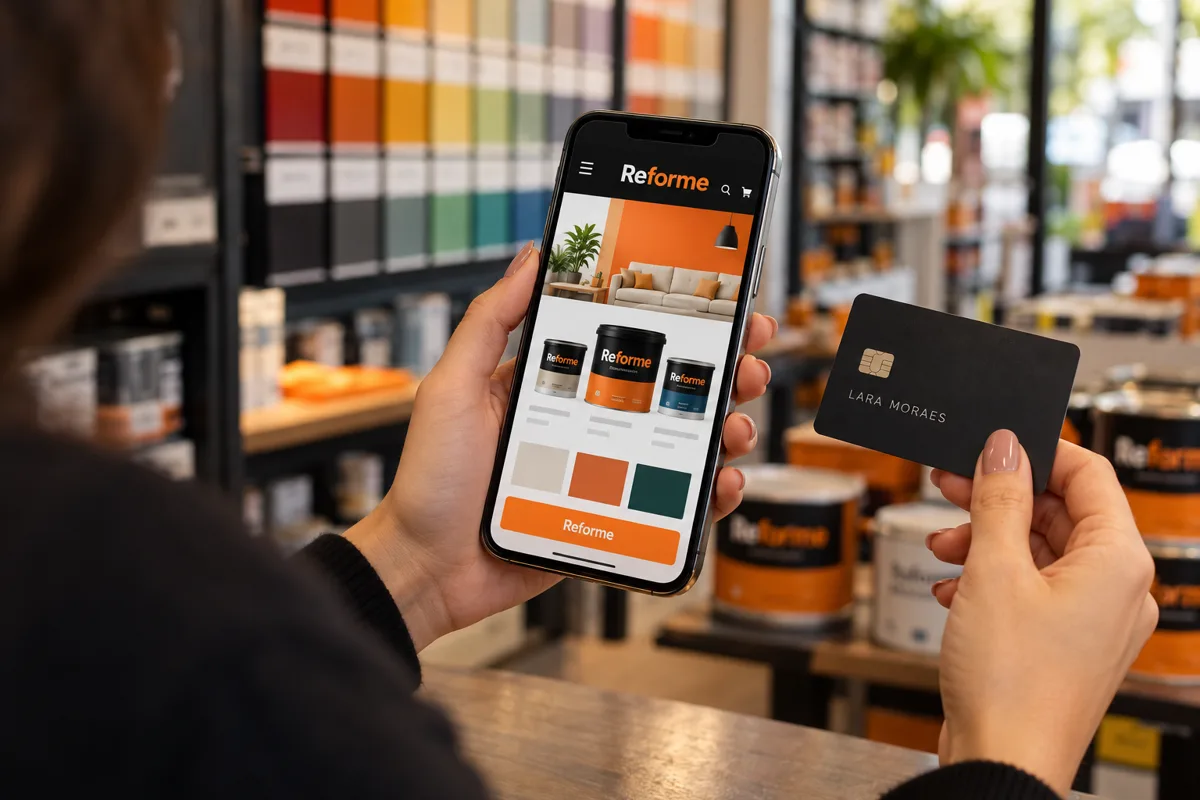
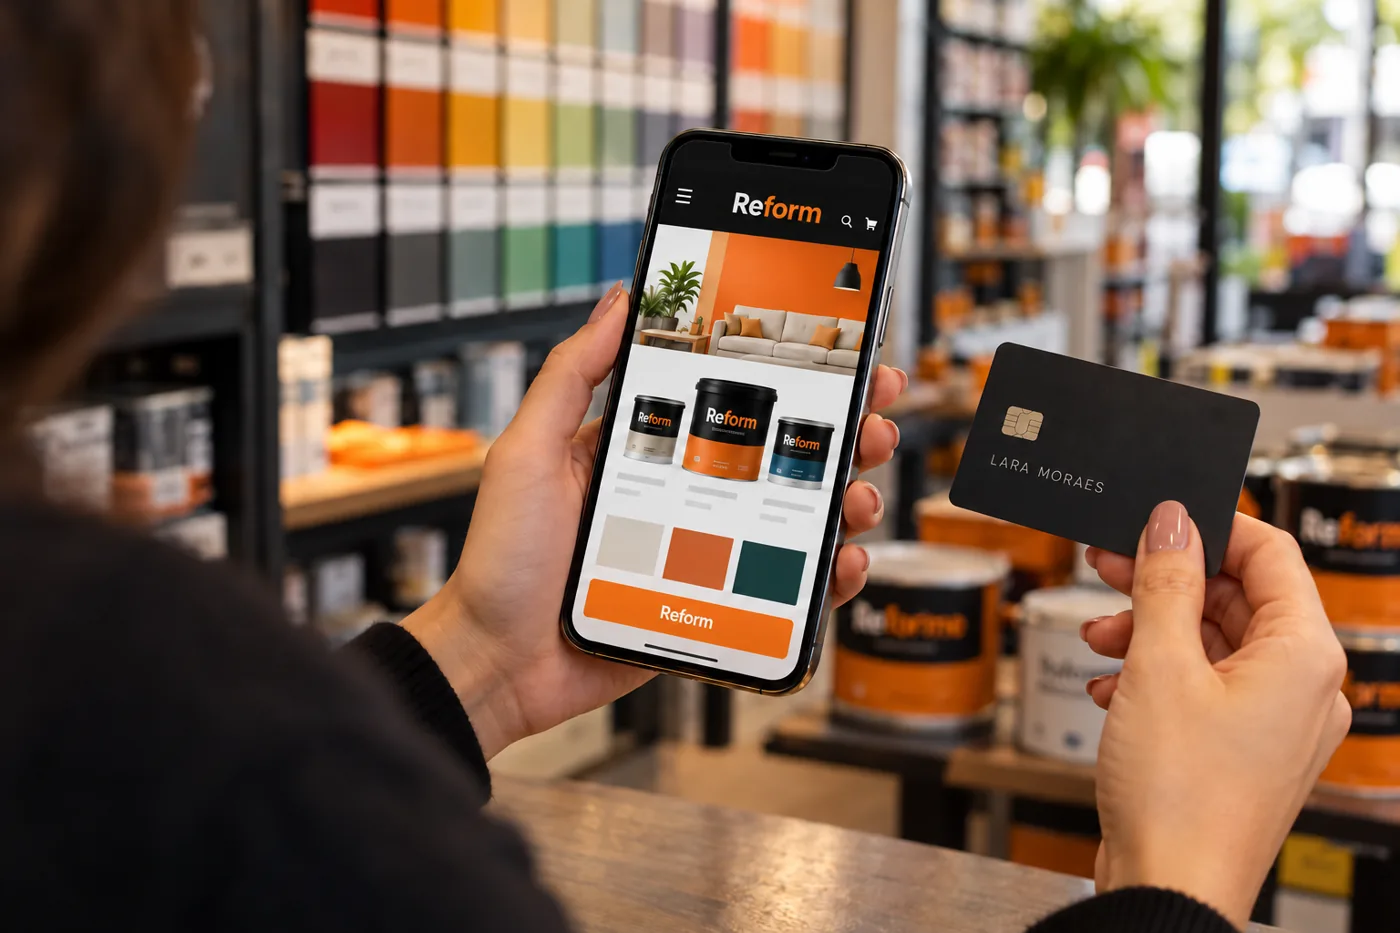
Correct Reform brand spelling

diff --git a/index.html b/index.html
@@ -15,7 +15,7 @@
   <body>
     <div class="site-home" id="site-home">
     <header class="site-header" id="topo">
-      <a class="brand" href="#topo" aria-label="Reforme, início"><span class="brand-logo"><img src="https://raw.githubusercontent.com/nexenagencia-prog/reform./main/assets/reforme-logo.png" alt="" /><span class="brand-logo-dot" aria-hidden="true"></span></span></a>
+      <a class="brand" href="#topo" aria-label="Reform, início"><span class="brand-logo"><img src="https://raw.githubusercontent.com/nexenagencia-prog/reform./main/assets/reforme-logo.png" alt="" /><span class="brand-logo-dot" aria-hidden="true"></span></span></a>
       <button class="menu-toggle" type="button" aria-label="Abrir menu" aria-expanded="false" aria-controls="main-nav"><span></span><span></span></button>
       <nav class="main-nav" id="main-nav" aria-label="Navegação principal">
         <a href="#comprar">Produtos</a>
@@ -42,7 +42,7 @@
             <p class="hero-copy">Tudo o que você precisa para pintar e renovar sua casa, você encontra aqui.</p>
             <div class="hero-actions">
               <a class="button button-orange" href="#comprar">Explore as tintas <span aria-hidden="true">↗</span></a>
-              <a class="text-link text-link-light" href="#loja">Conheça a Reforme <span aria-hidden="true">↓</span></a>
+              <a class="text-link text-link-light" href="#loja">Conheça a Reform <span aria-hidden="true">↓</span></a>
             </div>
           </div>
         </div>
@@ -127,11 +127,11 @@
             <span class="category-content"><span class="category-label">ACABAMENTO</span><strong>Acabamento bonito<br />em cada ambiente.</strong><span class="category-action">Explorar categoria <span class="category-arrow" aria-hidden="true">↗</span></span></span>
           </a>
         </div>
-        <div class="catalog-note"><p>Tem mais por aqui. Fale com a equipe sobre sua pintura.</p><a class="button button-orange" href="https://api.whatsapp.com/send?text=Ol%C3%A1%2C%20Reforme!%20Quero%20conversar%20sobre%20tintas%20e%20acess%C3%B3rios%20para%20minha%20casa." target="_blank" rel="noopener noreferrer">Fale com um atendente <span aria-hidden="true">↗</span></a></div>
+        <div class="catalog-note"><p>Tem mais por aqui. Fale com a equipe sobre sua pintura.</p><a class="button button-orange" href="https://api.whatsapp.com/send?text=Ol%C3%A1%2C%20Reform!%20Quero%20conversar%20sobre%20tintas%20e%20acess%C3%B3rios%20para%20minha%20casa." target="_blank" rel="noopener noreferrer">Fale com um atendente <span aria-hidden="true">↗</span></a></div>
       </section>
 
       <section class="store section-pad" id="loja">
-        <div class="store-image reveal"><img src="https://raw.githubusercontent.com/nexenagencia-prog/reform./main/assets/loja-interior.webp" alt="Interior da loja Reforme com tintas e acessórios para pintura" loading="lazy" /><span class="image-tag">POR DENTRO DA REFORME <span>↗</span></span></div>
+        <div class="store-image reveal"><img src="https://raw.githubusercontent.com/nexenagencia-prog/reform./main/assets/loja-interior.webp" alt="Interior da loja Reform com tintas e acessórios para pintura" loading="lazy" /><span class="image-tag">POR DENTRO DA REFORM <span>↗</span></span></div>
         <div class="store-copy reveal">
           <div class="section-kicker"><span>05 / MAIS PERTO DA SUA OBRA</span></div>
           <p class="eyebrow">Uma loja feita para transformar ambientes</p>
@@ -156,11 +156,11 @@
 
       <section class="contact section-pad" id="contato">
         <div class="contact-inner reveal">
-          <div class="contact-mark" role="img" aria-label="Reforme"><span class="brand-logo"><img src="https://raw.githubusercontent.com/nexenagencia-prog/reform./main/assets/reforme-logo.png" alt="" /><span class="brand-logo-dot" aria-hidden="true"></span></span></div>
+          <div class="contact-mark" role="img" aria-label="Reform"><span class="brand-logo"><img src="https://raw.githubusercontent.com/nexenagencia-prog/reform./main/assets/reforme-logo.png" alt="" /><span class="brand-logo-dot" aria-hidden="true"></span></span></div>
           <p class="eyebrow">A sua ideia já tem endereço</p>
           <h2><span class="contact-title-line">Sua próxima pintura</span><span class="contact-title-line"><em>começa bem aqui.</em></span></h2>
           <p>Encontre tintas, seladores e acessórios com orientação para escolher o acabamento ideal para sua casa.</p>
-          <a class="button button-orange" href="https://api.whatsapp.com/send?text=Ol%C3%A1%2C%20Reforme!%20Quero%20conversar%20sobre%20tintas%20e%20acess%C3%B3rios%20para%20minha%20casa." target="_blank" rel="noopener noreferrer">Vamos tirar sua obra do papel <span aria-hidden="true">↗</span></a>
+          <a class="button button-orange" href="https://api.whatsapp.com/send?text=Ol%C3%A1%2C%20Reform!%20Quero%20conversar%20sobre%20tintas%20e%20acess%C3%B3rios%20para%20minha%20casa." target="_blank" rel="noopener noreferrer">Vamos tirar sua obra do papel <span aria-hidden="true">↗</span></a>
           <span class="contact-note">TINTAS E SOLUÇÕES PARA PINTURA</span>
         </div>
         <div class="painting-gallery" aria-label="Projetos de pintura em diferentes ambientes">
@@ -185,13 +185,13 @@
       </section>
     </main>
 
-    <footer class="site-footer"><a class="footer-brand" href="#topo" aria-label="Reforme"><span class="brand-logo"><img src="https://raw.githubusercontent.com/nexenagencia-prog/reform./main/assets/reforme-logo.png" alt="" /><span class="brand-logo-dot" aria-hidden="true"></span></span></a><span>Pintar. Renovar. Transformar.</span><a class="instagram-link" href="https://www.instagram.com/reforme.cidreira/" target="_blank" rel="noopener noreferrer" aria-label="Instagram da Reforme, @reforme.cidreira"><svg viewBox="0 0 24 24" aria-hidden="true"><rect x="3" y="3" width="18" height="18" rx="5"></rect><circle cx="12" cy="12" r="4"></circle><circle cx="18" cy="6" r="1" fill="currentColor" stroke="none"></circle></svg><span>@reforme.cidreira</span></a><a class="back-top" href="#topo">Voltar ao início ↑</a><small>© <span id="year"></span> Reforme. Todos os direitos reservados.</small></footer>
+    <footer class="site-footer"><a class="footer-brand" href="#topo" aria-label="Reform"><span class="brand-logo"><img src="https://raw.githubusercontent.com/nexenagencia-prog/reform./main/assets/reforme-logo.png" alt="" /><span class="brand-logo-dot" aria-hidden="true"></span></span></a><span>Pintar. Renovar. Transformar.</span><a class="instagram-link" href="https://www.instagram.com/reforme.cidreira/" target="_blank" rel="noopener noreferrer" aria-label="Instagram da Reform, @reforme.cidreira"><svg viewBox="0 0 24 24" aria-hidden="true"><rect x="3" y="3" width="18" height="18" rx="5"></rect><circle cx="12" cy="12" r="4"></circle><circle cx="18" cy="6" r="1" fill="currentColor" stroke="none"></circle></svg><span>@reforme.cidreira</span></a><a class="back-top" href="#topo">Voltar ao início ↑</a><small>© <span id="year"></span> Reform. Todos os direitos reservados.</small></footer>
     </div>
 
     <section class="painters-view" id="pintores" hidden>
       <div class="materials-view-topbar">
         <button class="materials-back" type="button" data-close-painters><span aria-hidden="true">←</span> Voltar ao site</button>
-        <a class="materials-view-brand" href="#topo" data-close-painters aria-label="Reforme, início"><img src="https://raw.githubusercontent.com/nexenagencia-prog/reform./main/assets/reforme-logo.png" alt="" /></a>
+        <a class="materials-view-brand" href="#topo" data-close-painters aria-label="Reform, início"><img src="https://raw.githubusercontent.com/nexenagencia-prog/reform./main/assets/reforme-logo.png" alt="" /></a>
         <a class="painters-shop-button" href="#loja-pintor" data-open-painter-shop>Loja do Pintor <span aria-hidden="true">↗</span></a>
       </div>
       <div class="materials-view-heading painters-heading">
@@ -216,7 +216,7 @@
     <section class="materials-view" id="catalogo" aria-labelledby="materials-title" hidden>
       <div class="materials-view-topbar">
         <button class="materials-back" type="button" data-close-materials><span aria-hidden="true">←</span> Voltar ao site</button>
-        <a class="materials-view-brand" href="#topo" aria-label="Reforme, voltar ao início"><img src="https://raw.githubusercontent.com/nexenagencia-prog/reform./main/assets/reforme-logo.png" alt="" /></a>
+        <a class="materials-view-brand" href="#topo" aria-label="Reform, voltar ao início"><img src="https://raw.githubusercontent.com/nexenagencia-prog/reform./main/assets/reforme-logo.png" alt="" /></a>
         <span class="materials-view-label">CATÁLOGO DE TINTAS</span>
       </div>
       <div class="materials-view-heading">
@@ -237,13 +237,13 @@
           <div><strong class="cart-count">0 produtos na lista</strong><span class="cart-total">Subtotal estimado: R$ 0,00</span></div>
           <a class="button button-dark cart-whatsapp" href="#contato">Continuar pelo WhatsApp <span aria-hidden="true">↗</span></a>
         </div>
-        <p class="shop-footnote">Produtos, imagens e preços de referência da Reforme. Valores e disponibilidade podem mudar conforme a região e o estoque. Consulte as condições atualizadas com a equipe Reforme.</p>
+        <p class="shop-footnote">Produtos, imagens e preços de referência da Reform. Valores e disponibilidade podem mudar conforme a região e o estoque. Consulte as condições atualizadas com a equipe Reform.</p>
       
     </section>
     <section class="painter-shop-view" id="loja-pintor" hidden>
       <div class="materials-view-topbar painter-shop-topbar">
         <button class="materials-back" type="button" data-close-painter-shop><span aria-hidden="true">←</span> Voltar ao site</button>
-        <a class="materials-view-brand" href="#topo" data-close-painter-shop aria-label="Reforme, início"><img src="https://raw.githubusercontent.com/nexenagencia-prog/reform./main/assets/reforme-logo.png" alt="" /></a>
+        <a class="materials-view-brand" href="#topo" data-close-painter-shop aria-label="Reform, início"><img src="https://raw.githubusercontent.com/nexenagencia-prog/reform./main/assets/reforme-logo.png" alt="" /></a>
         <span class="materials-view-label">ÁREA EXCLUSIVA DO PINTOR</span>
       </div>
       <div class="painter-shop-layout">
@@ -266,7 +266,7 @@
             <button class="button button-orange" type="submit">Salvar nova senha</button>
           </form>
           <p class="painter-login-status" id="painter-login-status" role="status" aria-live="polite">O acesso é liberado após a aprovação do cadastro.</p>
-          <a class="painter-login-help" href="https://wa.me/?text=Ol%C3%A1%2C%20Reforme!%20Sou%20pintor%20cadastrado%20e%20quero%20ativar%20meu%20acesso%20%C3%A0%20Loja%20do%20Pintor." target="_blank" rel="noopener noreferrer">Precisa do seu acesso? Fale com a equipe <span aria-hidden="true">↗</span></a>
+          <a class="painter-login-help" href="https://wa.me/?text=Ol%C3%A1%2C%20Reform!%20Sou%20pintor%20cadastrado%20e%20quero%20ativar%20meu%20acesso%20%C3%A0%20Loja%20do%20Pintor." target="_blank" rel="noopener noreferrer">Precisa do seu acesso? Fale com a equipe <span aria-hidden="true">↗</span></a>
           <p class="painter-login-setup">Entre com seu acesso aprovado para consultar a seleção de tintas e pedir sua condição especial.</p>
         </div>
       </div>
@@ -278,7 +278,7 @@
         <div class="painter-member-reward"><span>VANTAGEM DO PROGRAMA</span><strong>A cada R$ 2.000 em compras de tintas</strong><p>Você ganha 1 lata de tinta grátis, para pintores cadastrados.</p></div>
         <label class="painter-member-search">Buscar produtos<input id="painter-member-search" type="search" placeholder="Tinta, marca ou medida"></label>
         <div class="painter-member-grid" id="painter-member-grid" aria-live="polite"></div>
-        <p class="painter-member-footnote">Os preços especiais, disponibilidade e condições são confirmados pela equipe Reforme antes do pedido.</p>
+        <p class="painter-member-footnote">Os preços especiais, disponibilidade e condições são confirmados pela equipe Reform antes do pedido.</p>
       </section>
     </section>
     <script src="https://cdn.jsdelivr.net/npm/@supabase/supabase-js@2.117.2"></script>
